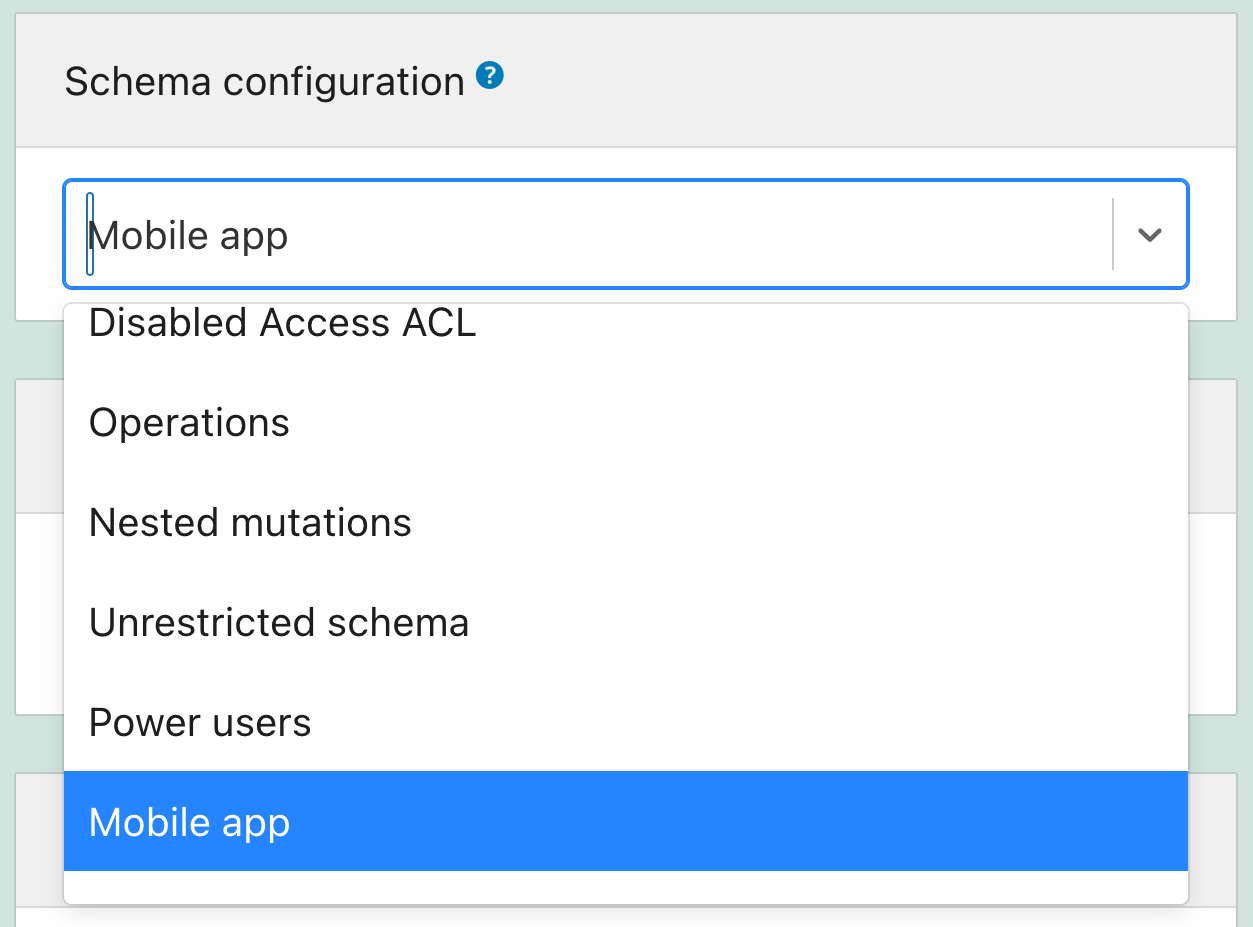
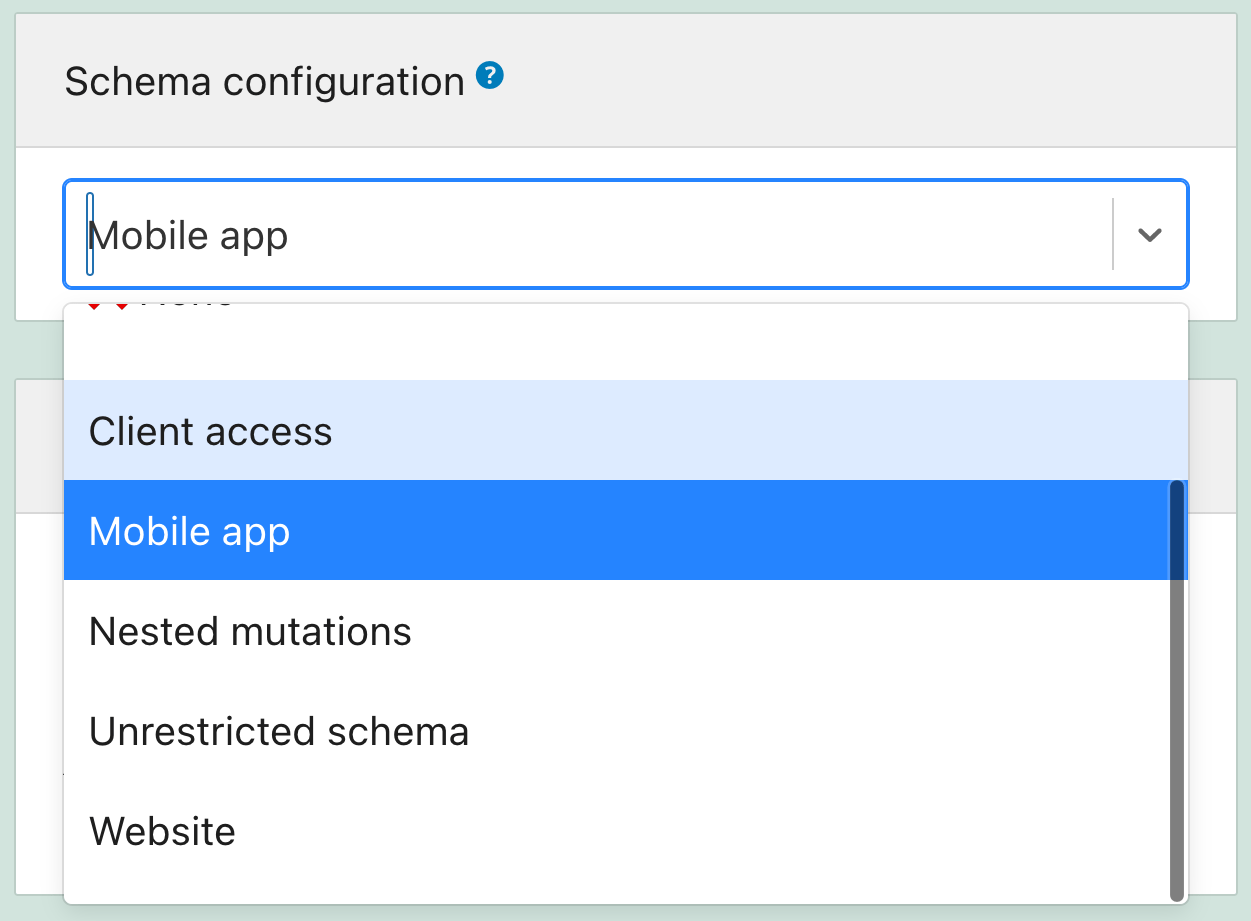
selecting => select image

diff --git a/docs/release-notes/1.0/en.md b/docs/release-notes/1.0/en.md
@@ -80,7 +80,7 @@ Now, the Gutenberg template (containing the blocks) is not locked anymore, then 
 
 In the Custom Endpoint and Persisted Query editors, the Schema Configuration entries are now sorted by name:
 
-![Selecting a Schema Configuration](../../images/releases/v1.0/selecting-schema-configuration.png)
+![Selecting a Schema Configuration](../../images/releases/v1.0/select-schema-configuration.png)
 
 ## Fixed
 
